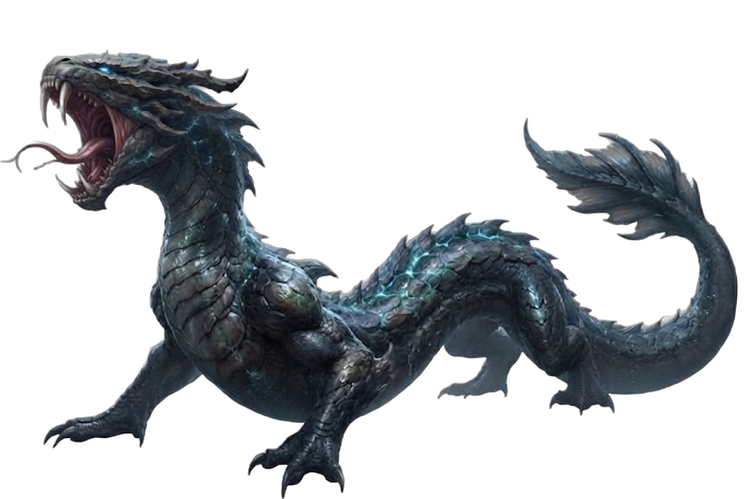
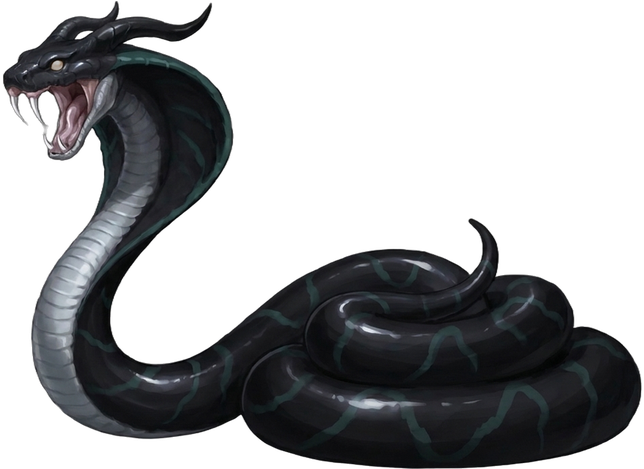
Black Water Serpent: redesigned picture, roar picture, animated from its own videos with its own voice
The Grandmaster Beast King: a glossy ink-black king serpent with dark-teal wave bands, a silver
belly, a flared hood and two short horns, coiled with its neck raised, drawn facing left (no
longer mirrored; Nano Banana 2.1; sparkle removed, shrunk to leave room). Both videos clean; its
flinch eases back out over 5 frames; the twinkles Veo scattered as it sank are left behind.

Claude-Session: https://claude.ai/code/session_018PQaDMV3orGvkBFWtr1kVD

diff --git a/tests/test_web_explore.py b/tests/test_web_explore.py
@@ -1375,6 +1375,20 @@ def test_the_jade_scaled_crocodile_is_animated_from_its_own_videos_with_its_own_
     assert json.load(open(os.path.join("art", "beasts", "heads.json")))["jade_scaled_crocodile@roar"][:2] == [0.12, 0.42]
     assert explore_play.beast_body("Jade-Scaled Crocodile") == "jade_scaled_crocodile"
 
+def test_the_black_water_serpent_is_animated_from_its_own_videos_with_its_own_voice():
+    """SHOAIB's redesigned Black Water Serpent (Nov 27, Grandmaster Beast King): a glossy ink-black hooded serpent with two short horns, coiled with its neck raised; both videos clean."""
+    import json
+    from web import beast_sheets, death, explore_play
+    d = beast_sheets.sheets("black_water_serpent")
+    assert d and set(d["sheets"]) == {"idle", "attack", "hit", "death"} and d["sheets"]["idle"]["smooth"]
+    assert death.view({"kind": "beast", "name": "Black Water Serpent", "slug": "black_water_serpent"})["kind"] == "sheet"
+    assert os.path.exists(os.path.join("art", "beasts", "roar", "black_water_serpent.png"))
+    keys = json.load(open(os.path.join("art", "fx", "sounds", "sounds.json")))
+    for sound in ("hit", "lunge", "death", "roar", "roar:big"):
+        assert f"{sound}@black_water_serpent" in keys
+    assert json.load(open(os.path.join("art", "beasts", "heads.json")))["black_water_serpent@roar"][:2] == [0.09, 0.23]
+    assert explore_play.beast_body("Black Water Serpent") == "black_water_serpent"
+
 def test_a_move_ending_in_another_pose_slides_and_dissolves_back_into_the_idle():
     """`make_beast_sheets.settle`: the last frames slide until the nose meets the idle's, then dissolve into it."""
     from PIL import Image

diff --git a/scripts/make_beast_sheets.py b/scripts/make_beast_sheets.py
@@ -177,6 +177,14 @@ CLIPS = {
                               "breathe": 0.03, "idle_from": 2.0, "idle_until": 3.1, "attack_ms": 3000,
                               "ease_in": {"attack": 2, "hit": 3, "death": 4}, "settle": {"attack": 4},
                               "ease_out": {"hit": 3}, "place_as": {"attack": "idle", "hit": "idle", "death": "idle"}},
+    # Nov 27 redesign, the Grandmaster Beast King: a glossy ink-black king serpent, dark-teal wave bands, a silver belly,
+    # a flared hood and two short horns, coiled with its neck raised: both videos clean (no remakes; made from the
+    # uncleaned picture, its sparkle on the backdrop). Its idle is the calm second before its open-jawed strike; its flinch
+    # and its slow sinking (its neck lowering till its head lies in front of its coils) from the hit video
+    "black_water_serpent": {"attack": (3.95, 6.45), "hit": (2.05, 3.1), "death": (3.85, 6.85), "idle_span": (16, 26),
+                            "breathe": 0.03, "idle_from": 2.75, "idle_until": 3.95, "attack_ms": 2600,
+                            "ease_in": {"attack": 2, "hit": 3, "death": 3}, "settle": {"attack": 3},
+                            "ease_out": {"hit": 5}, "place_as": {"attack": "idle", "hit": "idle", "death": "idle"}},
     "old_black_bear": {"attack": (2.3, 5.1), "hit": (2.05, 3.45), "death": (3.9, 6.4), "idle_span": (30, 46),
                        "idle_from": 5.8, "attack_ms": 2600, "bite": 27, "impact": 10, "white": ("death",)},
                        # its attack from the remade video with headroom (Nov 26): the first one's head left the video

diff --git a/scripts/make_quadruped_art.py b/scripts/make_quadruped_art.py
@@ -53,7 +53,7 @@ INSECTS = ("venom_scorpion", "golden_silk_spider", "thousand_year_centipede")
 CROCODILES = ("jade_scaled_crocodile", "abyss_crocodile")
 # the tortoises (SHOAIB's redesign)
 TORTOISES = ("stone_shell_tortoise", "black_tortoise_xuanwu", "primordial_dragon_turtle")
-FACES_RIGHT = {"black_tortoise_xuanwu", "abyss_crocodile", "thousand_year_centipede", "shanxiao_mountain_spirit", "flood_dragon_jiao", "black_water_serpent", "bifang_fire_crane", "vermilion_bird", "nine_tailed_fox", "thunder_rhino", "fire_hoof_steed", "ancient_golden_ape",
+FACES_RIGHT = {"black_tortoise_xuanwu", "abyss_crocodile", "thousand_year_centipede", "shanxiao_mountain_spirit", "flood_dragon_jiao", "bifang_fire_crane", "vermilion_bird", "nine_tailed_fox", "thunder_rhino", "fire_hoof_steed", "ancient_golden_ape",
                "earth_splitting_rhino", "shadow_panther", "cloud_leopard"}
 # drawn on a slab: the slab's top edge, as a share of the picture's height (read off each design by eye)
 SLAB = {"grey_wolf": 0.80, "cloud_leopard": 0.73,

diff --git a/scripts/make_roar_fx.py b/scripts/make_roar_fx.py
@@ -42,7 +42,7 @@ MOUTHS = {
     "azure_dragon": (0.04, 0.42),
     "bifang_fire_crane": (0.04, 0.12),
     "black_tortoise_xuanwu": (0.03, 0.47),
-    "black_water_serpent": (0.04, 0.21),
+    "black_water_serpent": (0.04, 0.18),
     "bloodfang_wolf": (0.04, 0.5),
     "bone_vulture": (0.04, 0.33),
     "cloud_leopard": (0.05, 0.45),
@@ -116,7 +116,7 @@ ROAR_MOUTHS = {
     "azure_dragon": (0.08, 0.5),
     "bifang_fire_crane": (0.05, 0.31),
     "black_tortoise_xuanwu": (0.07, 0.52),
-    "black_water_serpent": (0.07, 0.25),
+    "black_water_serpent": (0.09, 0.23),
     "bloodfang_wolf": (0.075, 0.5),
     "bone_vulture": (0.08, 0.38),
     "cloud_leopard": (0.3, 0.24),

diff --git a/art/beasts/README.md b/art/beasts/README.md
@@ -60,5 +60,5 @@ dark-green scorpion with its tail curled over its back; its videos kept the pict
 sparkle, so both are dropped, and its strike is taken without the green slash arc the video drew. The **Poison Toad** (Martial Expert) is a huge warty
 olive toad with bright toxic-green spots, its jolt's white impact lines wiped from its video. The **Silver Monkey** (Martial Expert) is an agile
 silver-furred monkey with a short curled tail; its attack video was remade (the first leapt off and turned round), and
-the tail Veo grew long in its hit and death video is cut back to a short stub. The **Steel-Horn Bull** (Elite) is a huge dark-brown bull with thick steel horns and an iron nose ring, drawn facing left (no longer mirrored; Nano Banana 2.1); both its videos were clean. The **Golden-Eyed Ape King**, the Martial Expert Beast King, is a colossal charcoal-and-rust great ape with a gold zigzag streak down its back and no tail; its picture was mirrored to face left before its videos (Nano Banana 2.1), and the few frames with dust at its fist slam are dropped. The **Ironbark Bear** (Martial Master) is a tawny bear armoured in red-brown ironwood bark with moss and jade-green stones, drawn facing left (no longer mirrored; Nano Banana 2.1); its swipe video was made from the uncleaned picture, so the sparkle Veo kept on its rump is cut away. The **Frost Wolf** (Martial Master) is a stocky pale silver-blue tundra wolf with a huge icy-tipped mane, a blue diamond on its brow and a short tucked tail (Nano Banana 2.1); it is pale, so its video effects are left out by choosing frames, never wiped: its bite stops just before the ice shards the video drew. The **Thunder Hawk** (Elite) is a bulky slate blue-grey hawk with a gold-tipped crest and gold zigzag stripes on its wings; it now stands and fights on its feet with its wings folded (no longer diving; no stone underfoot; Nano Banana 2.1). Its first attack and hit spread its wings off the video, so they come from one remade video; its fall from the first. The **Ember Lizard** (Martial Master) is a lean, long-legged runner, glossy black with coal-orange bands and a flame-orange neck frill (Nano Banana 2.1; the small flame wisp Gemini drew over its head painted out). Veo grew its short tail long in every video, so each move is taken before the tail grows. The **Frost Python** (Elite) is a navy-blue python with ice-white diamonds and a frosted spine ridge, coiled low (Nano Banana 2.1; Gemini's sparkle painted onto its coil was un-blended before its videos); both its videos were clean. The **Wind Leopard** (Elite) is a slim, long-legged sand-gold leopard with swirl-shaped spots and black-tufted ears, drawn facing left (no longer mirrored; Nano Banana 2.1); Veo grew its short tail long whenever it moved, so the tail is cut back where it reaches past its back feet. The **Flame-Maned Lion**, the Martial Master Beast King, is a golden lion with a huge crimson-to-gold mane (just colour, not fire) and no tail showing, drawn facing left (no longer mirrored; Nano Banana 2.1; its long thin tail and the "AI" badge painted out of its picture); the tufted tail Veo grew is cut back in every move. The **Stone-Shell Tortoise** (Grandmaster) is an ox-sized tortoise with a slate stone shell, ochre seams, moss and three stone knobs (Nano Banana 2.1); both its videos were clean. The **Bone Vulture** (Grandmaster) is a hunched charcoal-purple vulture with a bare bone-white head, an ivory beak and bone-white wing edges, standing with its wings folded (Nano Banana 2.1); both its videos were clean, and its pale head is its own, so nothing is wiped. The **Storm Eagle** (Elite) is a tall indigo-black eagle with a rain-streaked storm-grey head, silver wing bands and a ruff of pointed neck feathers, standing with its wings folded (Nano Banana 2.1; a gold streak behind its eye painted out); both its videos were clean. The **Lightning Weasel** (Grandmaster) is a lean dark chocolate-brown weasel with a cream-white throat and belly, a gold lightning-bolt stripe along its side (just colour) and a stub tail (Nano Banana 2.1); both its videos were clean, and the long bushy tail Veo grew as it fell is cut back to a stub. The **Jade-Scaled Crocodile** (Elite) is a heavy olive-green crocodile with rows of raised polished jade armour plates down its back and a stub tail, drawn facing left (no longer mirrored; Nano Banana 2.1); both its videos were clean, and its bite takes in a few frames of its head rising again afterwards so it ends in its standing pose. The beasts are
+the tail Veo grew long in its hit and death video is cut back to a short stub. The **Steel-Horn Bull** (Elite) is a huge dark-brown bull with thick steel horns and an iron nose ring, drawn facing left (no longer mirrored; Nano Banana 2.1); both its videos were clean. The **Golden-Eyed Ape King**, the Martial Expert Beast King, is a colossal charcoal-and-rust great ape with a gold zigzag streak down its back and no tail; its picture was mirrored to face left before its videos (Nano Banana 2.1), and the few frames with dust at its fist slam are dropped. The **Ironbark Bear** (Martial Master) is a tawny bear armoured in red-brown ironwood bark with moss and jade-green stones, drawn facing left (no longer mirrored; Nano Banana 2.1); its swipe video was made from the uncleaned picture, so the sparkle Veo kept on its rump is cut away. The **Frost Wolf** (Martial Master) is a stocky pale silver-blue tundra wolf with a huge icy-tipped mane, a blue diamond on its brow and a short tucked tail (Nano Banana 2.1); it is pale, so its video effects are left out by choosing frames, never wiped: its bite stops just before the ice shards the video drew. The **Thunder Hawk** (Elite) is a bulky slate blue-grey hawk with a gold-tipped crest and gold zigzag stripes on its wings; it now stands and fights on its feet with its wings folded (no longer diving; no stone underfoot; Nano Banana 2.1). Its first attack and hit spread its wings off the video, so they come from one remade video; its fall from the first. The **Ember Lizard** (Martial Master) is a lean, long-legged runner, glossy black with coal-orange bands and a flame-orange neck frill (Nano Banana 2.1; the small flame wisp Gemini drew over its head painted out). Veo grew its short tail long in every video, so each move is taken before the tail grows. The **Frost Python** (Elite) is a navy-blue python with ice-white diamonds and a frosted spine ridge, coiled low (Nano Banana 2.1; Gemini's sparkle painted onto its coil was un-blended before its videos); both its videos were clean. The **Wind Leopard** (Elite) is a slim, long-legged sand-gold leopard with swirl-shaped spots and black-tufted ears, drawn facing left (no longer mirrored; Nano Banana 2.1); Veo grew its short tail long whenever it moved, so the tail is cut back where it reaches past its back feet. The **Flame-Maned Lion**, the Martial Master Beast King, is a golden lion with a huge crimson-to-gold mane (just colour, not fire) and no tail showing, drawn facing left (no longer mirrored; Nano Banana 2.1; its long thin tail and the "AI" badge painted out of its picture); the tufted tail Veo grew is cut back in every move. The **Stone-Shell Tortoise** (Grandmaster) is an ox-sized tortoise with a slate stone shell, ochre seams, moss and three stone knobs (Nano Banana 2.1); both its videos were clean. The **Bone Vulture** (Grandmaster) is a hunched charcoal-purple vulture with a bare bone-white head, an ivory beak and bone-white wing edges, standing with its wings folded (Nano Banana 2.1); both its videos were clean, and its pale head is its own, so nothing is wiped. The **Storm Eagle** (Elite) is a tall indigo-black eagle with a rain-streaked storm-grey head, silver wing bands and a ruff of pointed neck feathers, standing with its wings folded (Nano Banana 2.1; a gold streak behind its eye painted out); both its videos were clean. The **Lightning Weasel** (Grandmaster) is a lean dark chocolate-brown weasel with a cream-white throat and belly, a gold lightning-bolt stripe along its side (just colour) and a stub tail (Nano Banana 2.1); both its videos were clean, and the long bushy tail Veo grew as it fell is cut back to a stub. The **Jade-Scaled Crocodile** (Elite) is a heavy olive-green crocodile with rows of raised polished jade armour plates down its back and a stub tail, drawn facing left (no longer mirrored; Nano Banana 2.1); both its videos were clean, and its bite takes in a few frames of its head rising again afterwards so it ends in its standing pose. The **Black Water Serpent**, the Grandmaster Beast King, is a glossy ink-black king serpent with dark-teal wave bands, a silver belly, a flared hood and two short horns, coiled with its neck raised, drawn facing left (no longer mirrored; Nano Banana 2.1); both its videos were clean, and the twinkles Veo scattered round it as it sank are left behind by the cut. That completes the Grandmaster realm. The beasts are
 being redone one at a time in roster order the same way.

diff --git a/docs/web.md b/docs/web.md
@@ -586,6 +586,7 @@ What is recorded now (23 names, 22 files, about 220 KB, all from SHOAIB's videos
 | The Storm Eagle's screeching beak stab, its cry when struck, its dying cry and fall, its screech and big screech (`@storm_eagle`) | its own idle + attack and hit + death videos (Nov 27) |
 | The Lightning Weasel's hissing snap, its squeal when struck, its dying squeak and thud, its hiss and big hiss (`@lightning_weasel`) | its own idle + attack and hit + death videos (Nov 27) |
 | The Jade-Scaled Crocodile's roaring bite, its grunt when struck, its slam onto its belly, its roar and big roar (`@jade_scaled_crocodile`) | its own idle + attack and hit + death videos (Nov 27) |
+| The Black Water Serpent's hissing strike, its hiss when struck, its dying hiss and fall, its hiss and big hiss (`@black_water_serpent`) | its own idle + attack and hit + death videos (Nov 27) |
 | A roar, and a big roar, for wolf-, cat- and ape-bodied beasts | the quadruped roar video |
 
 **His own sounds (Nov 24).** The new male's videos carry sound too, and his moves play it: his Strike's swing, his
@@ -1182,7 +1183,7 @@ its beasts in `DEATH_CATEGORY`. To give another four-legged beast the movement, 
 ## Animated beasts
 
 A beast can be animated from its videos (SHOAIB's, Gemini or Flow: idle, attack, hit, death; so far the **Grey Wolf**
-and the redesigned **Wild Boar**, **Field Viper**, **Stray Dog Pack**, **Wild Ox**, **Old Black Bear**, **Iron-Hide Boar**, **Red Fox**, the first bird, the **Wind-Feather Falcon**, the **Shadow Wolf**, the **Horned Stag**, the **Mountain Tiger**, the **Rock Python**, the **Spear-Beak Crane**, the **Thornback Lizard**, the **Bloodfang Wolf**, the **Armored Boar Chief**, the **White-Browed Tiger King**, the **Venom Scorpion**, the **Poison Toad**, the **Silver Monkey**, the **Steel-Horn Bull**, the **Golden-Eyed Ape King**, the **Ironbark Bear**, the **Frost Wolf**, the **Thunder Hawk**, the **Ember Lizard**, the **Frost Python**, the **Wind Leopard**, the **Flame-Maned Lion**, the **Stone-Shell Tortoise**, the **Bone Vulture**, the **Storm Eagle**, the **Lightning Weasel** and the **Jade-Scaled Crocodile**). One video can hold two of them: the Wild Boar's idle comes from one video, its hit
+and the redesigned **Wild Boar**, **Field Viper**, **Stray Dog Pack**, **Wild Ox**, **Old Black Bear**, **Iron-Hide Boar**, **Red Fox**, the first bird, the **Wind-Feather Falcon**, the **Shadow Wolf**, the **Horned Stag**, the **Mountain Tiger**, the **Rock Python**, the **Spear-Beak Crane**, the **Thornback Lizard**, the **Bloodfang Wolf**, the **Armored Boar Chief**, the **White-Browed Tiger King**, the **Venom Scorpion**, the **Poison Toad**, the **Silver Monkey**, the **Steel-Horn Bull**, the **Golden-Eyed Ape King**, the **Ironbark Bear**, the **Frost Wolf**, the **Thunder Hawk**, the **Ember Lizard**, the **Frost Python**, the **Wind Leopard**, the **Flame-Maned Lion**, the **Stone-Shell Tortoise**, the **Bone Vulture**, the **Storm Eagle**, the **Lightning Weasel**, the **Jade-Scaled Crocodile** and the **Black Water Serpent**). One video can hold two of them: the Wild Boar's idle comes from one video, its hit
 and attack from a second, its death from a third (`CLIPS` gives the seconds of each).
 **The move panel never changes height** (fight.js `holdInfo`): it is held at the height of its tallest text (every
 move's and technique's, tried once when the page comes in, and again when the window changes size). Guard's and
@@ -1256,6 +1257,9 @@ so its idle is the calm second before that (2.0-3.1 s) and the bite takes the he
 wind-up. After the bite its head rested lower than the idle's (a double head where it dissolved back) and only rose again
 over the next 3 s, so a few spaced frames of that rise end the bite (spans of one frame each), and it settles into the
 idle with no double head; it still plays in 3 s.
+**The Black Water Serpent** (Nov 27): both videos clean; its idle before its strike, its flinch (eased back out over 5
+frames: its idle hardly moves, so a shorter ease showed as a small jump) and its slow sinking from the hit video. Veo
+scattered twinkles round its head as it sank; they never touch the serpent, so the cut leaves them behind.
 **The idle never jumps** (`smooth_idle`; SHOAIB: "it keeps resetting"): its last frame never quite met its first, so
 a short idle plays forward then back, breathing in and out, and a long one (24+ frames) dissolves its last 6 frames
 into its first; and it keeps its place in time when the page is replaced each turn (fight.js sets its

diff --git a/art/beasts/PROMPTS.md b/art/beasts/PROMPTS.md
@@ -231,9 +231,9 @@ File: `art/beasts/jade_scaled_crocodile.png` (Nov 27 redesign, Nano Banana 2.1, 
 > A massive, heavy crocodile, deep olive-green body with two rows of thick, raised, polished jade-green armour plates running down its back from neck to tail, pale yellow-cream belly and throat, a long broad snout with its mouth CLOSED (a few teeth just visible along the jaw), heavy brow ridges over calm amber eyes. The jade plates are just colour and shape, solid and part of its body: no glow. It stands up on all four short, thick legs in a low walk pose, belly just off the ground, all four legs clearly visible, solid and separated, with heavy clawed feet. Its tail is VERY SHORT: only a short, thick stub held low, close to the body, ending just behind its back legs. It does NOT have a long tail. Strict side view facing LEFT: its head on the LEFT side of the picture. The crocodile fills about 65% of the picture's width, a little right of centre, with clear empty grey space on ALL four sides (about a quarter of the height above it). Plain flat even medium-grey background: the same grey from top to bottom, no gradient, no vignette, no light outline around the body. No ground, no water, no shadow, no aura, no sparkles, no text. All of its scales are solid: nothing coming off it. Only its eyes may glow faintly, no marks around the eyes. No blood, scars or wounds. Digital painting, premium Chinese xianxia game creature art, realistic anatomy, detailed scales, rich mature colours. 16:9.
 
 **Black Water Serpent** · Beast King · Shadow
-File: `art/beasts/black_water_serpent.png`
+File: `art/beasts/black_water_serpent.png` (Nov 27 redesign, Nano Banana 2.1, drawn facing left (no longer mirrored; its sparkle removed and shrunk to leave room); animated from its idle + attack and hit + death videos)
 
-> An enormous black serpent rising from dark water, ominous, coils vanishing into mist, with a subtle violet shadow elemental aura. It is a Beast King: the most powerful of its realm, regal, enormous and awe-inspiring. Digital painting, premium Chinese xianxia MMORPG creature concept art. Realistic anatomy, detailed scales, dramatic natural rim lighting, painterly brushwork, rich but mature colours. Full body, three-quarter view facing left, dynamic pose. Isolated on a plain transparent background, no ground, no text, no frame, no watermark.
+> An enormous king serpent, glossy ink-black scales with faint dark-teal wave-shaped bands across its body, a pale silver belly, a broad flared hood behind its head (black with a dark-teal edge), and two short, thick, swept-back black horns on top of its head. Calm pale-gold eyes. Its body is coiled compact and low in a thick round pile, and its neck rises from the coils in a smooth S-curve, holding its head up, mouth CLOSED. Its tail tip is tucked inside the coils, not visible. The teal bands are just colour: no glow, no water, no mist. The hood and horns are solid and attached. Strict side view facing LEFT: its head on the LEFT side of the picture. The serpent, from the bottom of its coils to the top of its head, fills about 65% of the picture's height, a little right of centre, with clear empty grey space on ALL four sides (about a quarter of the height above its head). Plain flat even medium-grey background: the same grey from top to bottom, no gradient, no vignette, no light outline around the body. No ground, no water, no shadow, no aura, no sparkles, no text. All of its scales are solid: nothing coming off it. Only its eyes may glow faintly, no marks around the eyes. No blood, scars or wounds. Digital painting, premium Chinese xianxia game creature art, realistic anatomy, detailed scales, rich mature colours. 16:9.
 
 ## Martial Lord
 
